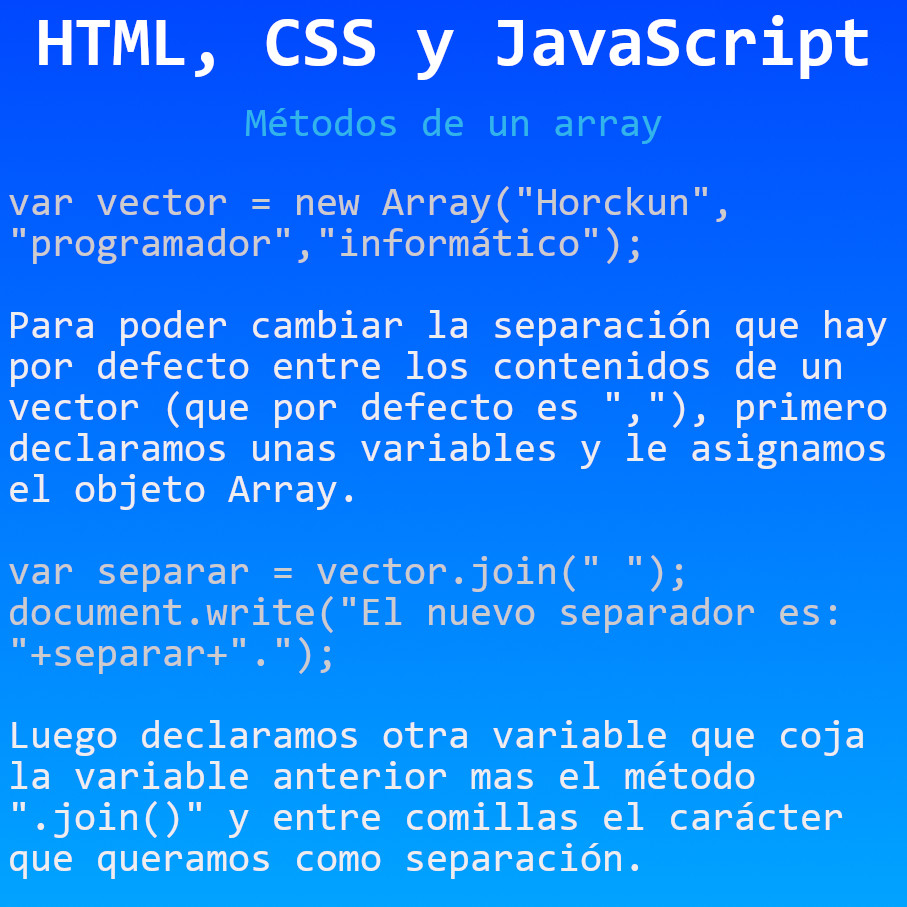
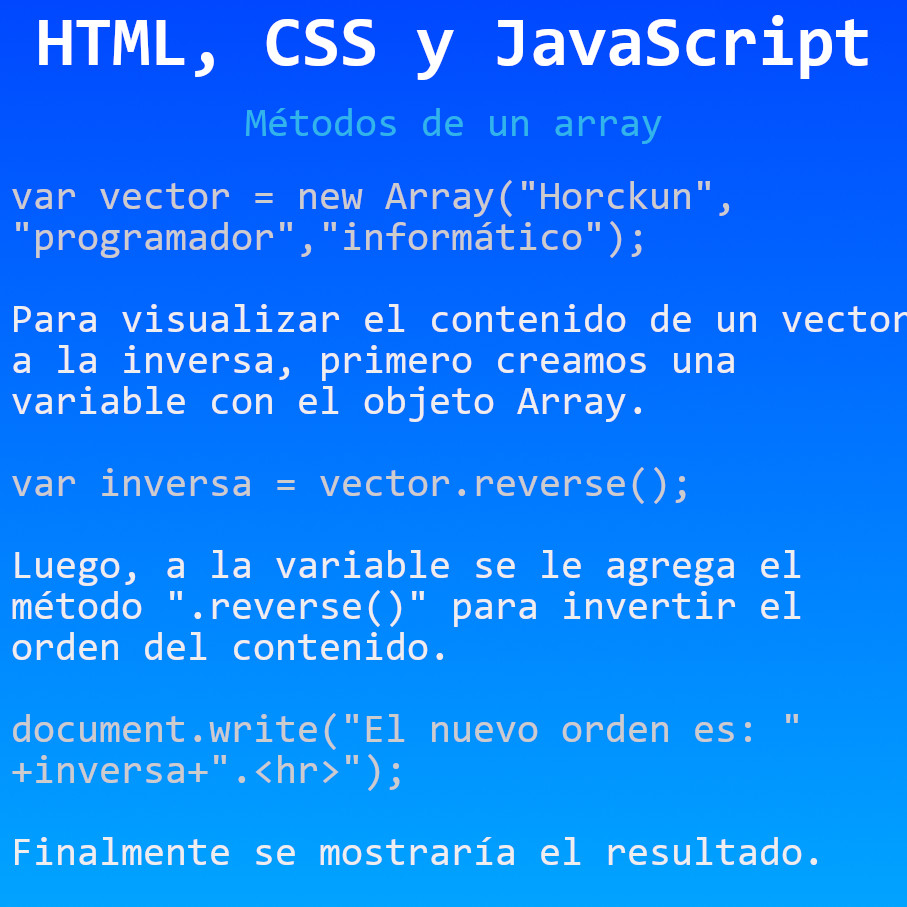
Métodos del objeto Array
Métodos del objeto Array en JavaScript

diff --git a/HTML, CSS y JavaScript/Métodos de un array/js/funciones.js b/HTML, CSS y JavaScript/Métodos de un array/js/funciones.js
@@ -9,4 +9,8 @@ document.write("El vector final sería: "+vectorFinal+".<hr>");
 // elegir otro carácter para separar contenido de array
 var separar = vectorFinal.join(" ");
 // mostrar en pantalla
-document.write("El nuevo separador es: "+separar+".");
+document.write("El nuevo separador es: "+separar+".<hr>");
+// invertir el orden del contenido
+var inversa = vectorFinal.reverse();
+// mostrar en pantalla
+document.write("El nuevo orden es: "+inversa+".<hr>");
